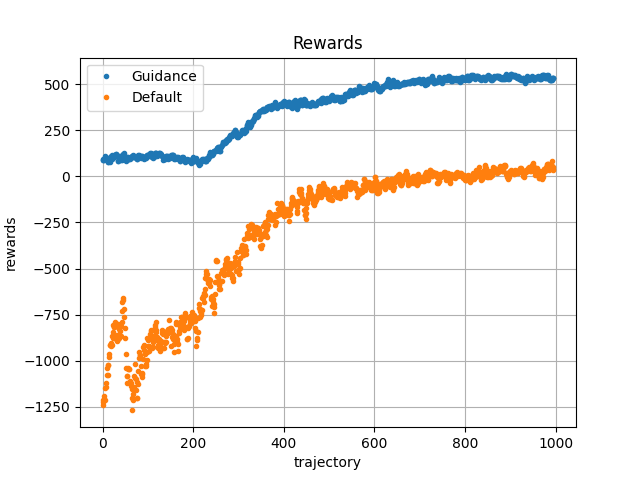
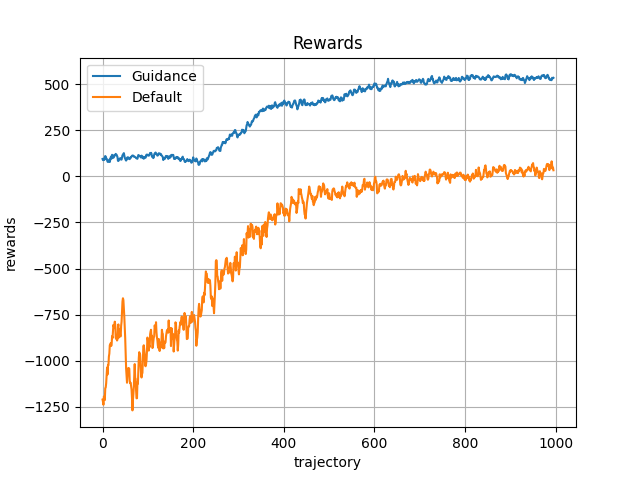
made small lib

diff --git a/experiments/guidance_experiment/showing.py b/experiments/guidance_experiment/showing.py
@@ -1,11 +1,13 @@
 import os
+import sys
 import matplotlib.pyplot as plt
 import numpy as np
 from typing import List
 
+sys.path.insert(0, '..')
 
-def moving_average(x, w):
-    return np.convolve(x, np.ones(w), 'valid') / w
+from showing_utils import moving_average
+
 
 def get_experiment_files(filenames: List[str], guidance: bool):
     experiment_files = []
@@ -45,7 +47,7 @@ def get_experements_wins(evaluation_filenames: List[str], guidance: bool):
 
 def main():
     current_dir = os.getcwd()
-    files_dir = os.path.join(current_dir, 'episodes_1000')
+    files_dir = os.path.join(current_dir, "episodes_1000")
 
     data_files = get_all_data_files(files_dir)
 
@@ -65,14 +67,14 @@ def main():
     default_rewards = read_files_data(default_rewards_files)
     default_rewards = np.array(default_rewards).mean(axis=0)
 
-    plt.plot(moving_average(guidance_rewards, 5), ".", label="Guidance")
-    plt.plot(moving_average(default_rewards, 5), ".", label="Default")
+    plt.plot(moving_average(guidance_rewards, 5), label="Guidance")
+    plt.plot(moving_average(default_rewards, 5), label="Default")
     plt.grid()
     plt.legend()
-    plt.title('Rewards')
-    plt.xlabel('trajectory')
-    plt.ylabel('rewards')
-    plt.savefig('guidance_rewards.png')
+    plt.title("Rewards")
+    plt.xlabel("trajectory")
+    plt.ylabel("rewards")
+    plt.savefig("guidance_rewards.png")
     plt.show()
 
     default_wins = get_experements_wins(evaluation_files, False)

diff --git a/experiments/showing_utils.py b/experiments/showing_utils.py
@@ -1,0 +1,5 @@
+import numpy as np
+
+
+def moving_average(x, w):
+    return np.convolve(x, np.ones(w), "valid") / w
